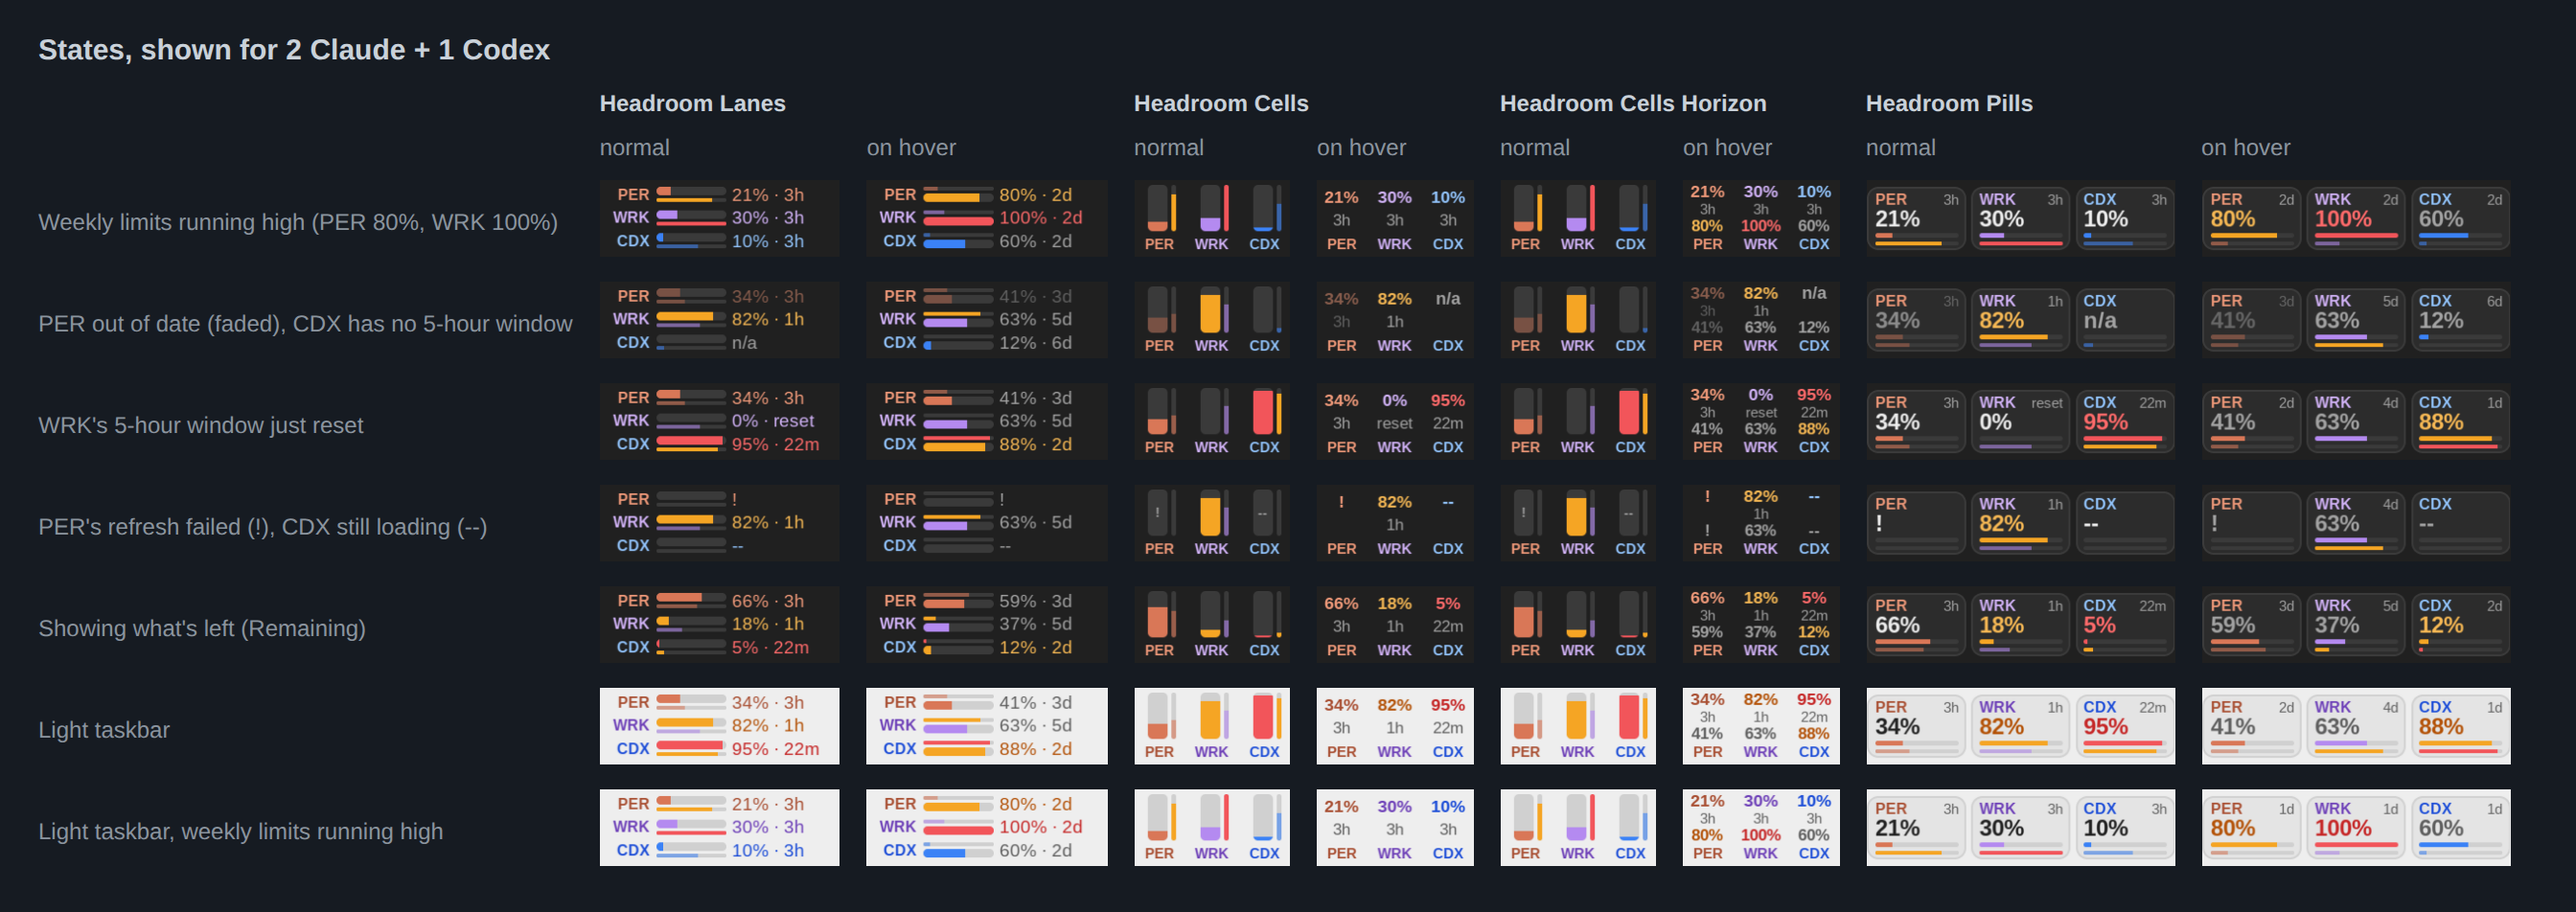
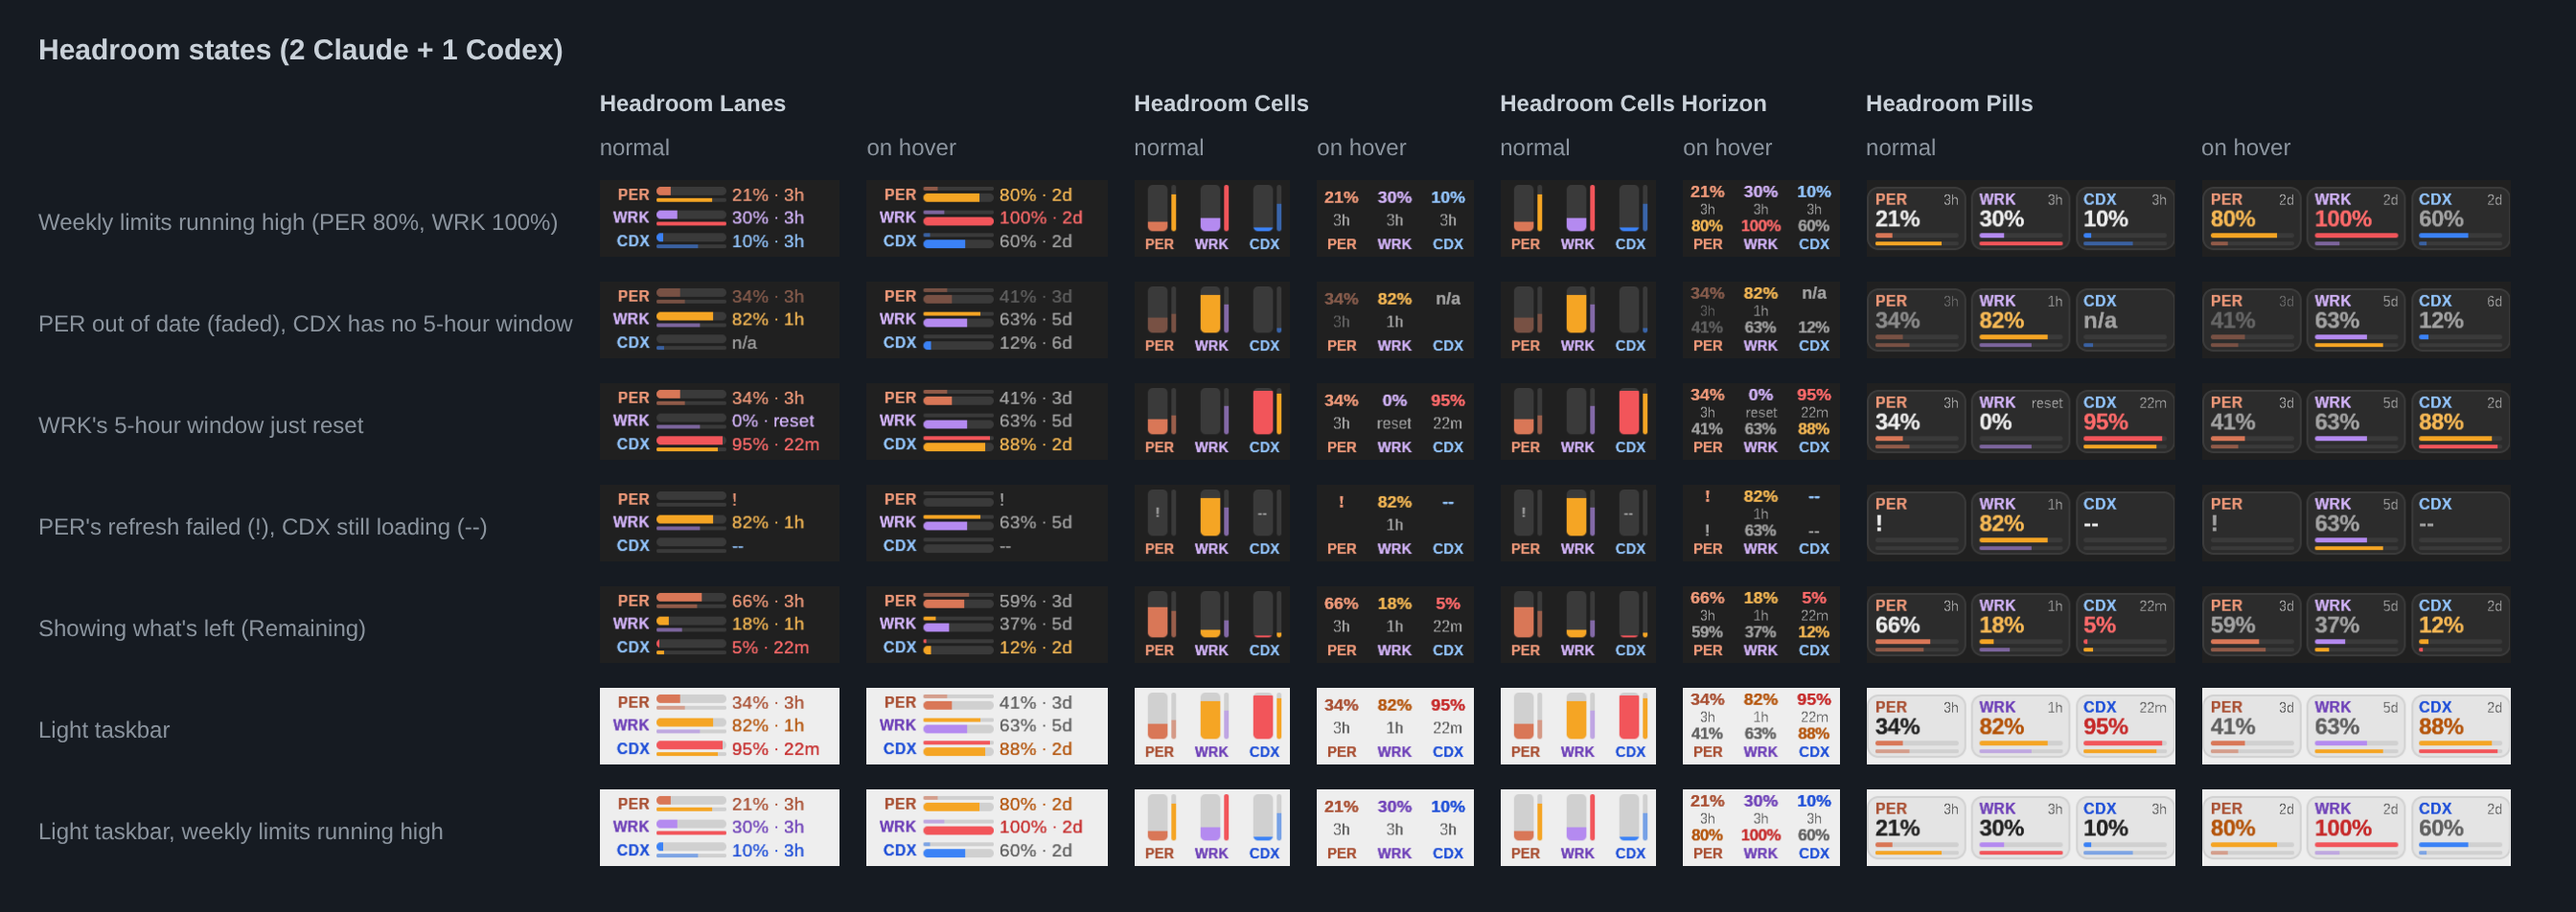
Set the states preview apart from the designs preview
Retitle the states image and introduce it in the README, so it doesn't read as a second copy of the overview at the top.

diff --git a/generator/engine-test/make_previews.py b/generator/engine-test/make_previews.py
@@ -60,7 +60,7 @@ def sheet(pngs, title, rows):
 def main(pngs, out):
     out.mkdir(parents=True, exist_ok=True)
     pages = {"designs": sheet(pngs, "Headroom: one theme per design, sized to what you use", MIXES),
-             "states": sheet(pngs, "States, shown for 2 Claude + 1 Codex", STATES)}
+             "states": sheet(pngs, "Headroom states (2 Claude + 1 Codex)", STATES)}
     for design, name in DESIGNS:
         header = "<tr><th></th><th>normal</th><th>on hover</th></tr>"
         rows = [f"<tr><td>{label}</td>{image(pngs, design, key, False, mode)}{image(pngs, design, key, True, mode)}</tr>"

diff --git a/README.md b/README.md
@@ -151,7 +151,9 @@ turned on but not installed or signed in shows `!`.
   you've used and what's left.
 * Light and dark taskbars both have their own colors.
 
-![Every state, shown for 2 Claude + 1 Codex](previews/states.png)
+The same four themes in each state, shown for 2 Claude + 1 Codex:
+
+![The four themes in each state, shown for 2 Claude + 1 Codex](previews/states.png)
 
 ## Make your own
 
